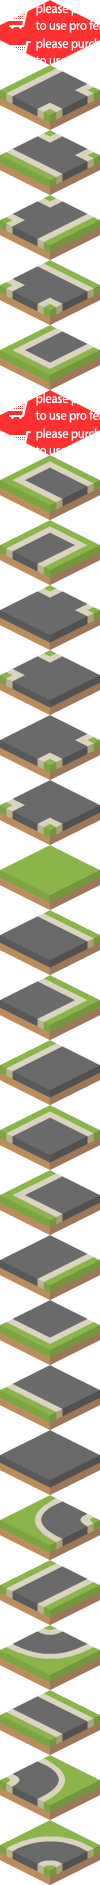
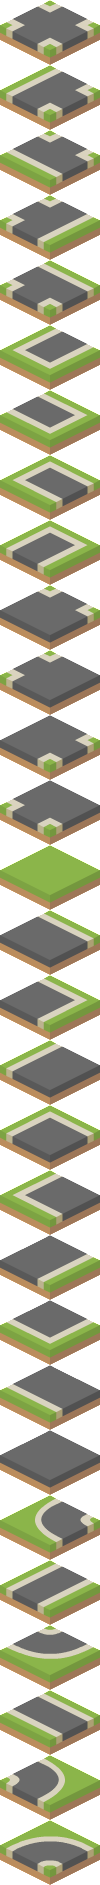
maze

Changed region(s): [[0.0, 0.1846, 1.0, 0.2462], [0.0, 0.0, 1.0, 0.0615]]

diff --git a/maze.client/src/sceneMaze.ts b/maze.client/src/sceneMaze.ts
@@ -27,17 +27,17 @@ export class MazeScene extends ex.Scene {
     }
     onInitialize(game: ex.Engine) {
         super.onInitialize(game);
-        //const maze = Maze.read(this.resources.Maze1.data);
-        const maze = Maze.read(this.resources.MazeTest.data);
+        const maze = Maze.read(this.resources.Maze1.data);
+        //const maze = Maze.read(this.resources.MazeTest.data);
         this.addPixelHelper(maze);
         this.isoMap = new ex.IsometricMap({
             pos: ex.vec(game.drawWidth / 2, 20),
             tileWidth: 100,
-            tileHeight: 51,
+            tileHeight: 50,
             columns: maze.Width,
             rows: maze.Height
         });
-        //this.isoMap.transform.scale = ex.vec(0.5, 0.5);
+        this.isoMap.transform.scale = ex.vec(0.5, 0.5);
 
         this.add(this.isoMap);
         //this.simpleTile(maze);
@@ -55,27 +55,30 @@ export class MazeScene extends ex.Scene {
             //     [4]
             if (s.startsWith("0"))
                 return spriteSheet.getSprite(0, 13);
+            s = s.substring(1);
             var map = {
                 //zatacky
-                "10101": 28,
-                "11010": 25,
-                "10110": 23,
-                "11001": 27,
+                "0101": 28,
+                "1010": 25,
+                "0110": 23,
+                "1001": 27,
                 //odbocky
-                "10111": 1,
-                "11110": 2,
-                "11101": 4,
-                "11011": 3,
+                "0111": 1,
+                "1110": 2,
+                "1101": 4,
+                "1011": 3,
                 //rovne
-                "11100": 26,
-                "10011": 24,
+                "1100": 26,
+                "0011": 24,
                 //krizovatka
-                "11111": 0,
+                "1111": 0,
                 //slepka
-                "11000": 6,
-                "10100": 7,
-                "10010": 5,
-                "10001": 8,
+                "1000": 6,
+                "0100": 7,
+                "0010": 5,
+                "0001": 8,
+                //samostatna
+                "0000": 22
             }
             if (map[s]!=undefined)
                 return spriteSheet.getSprite(0, map[s]);
